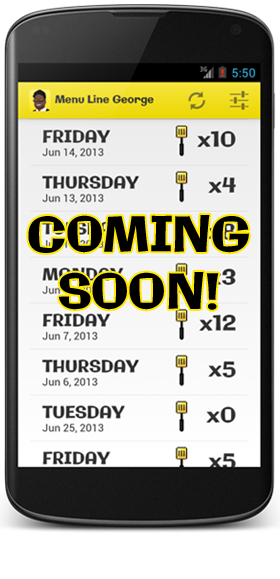
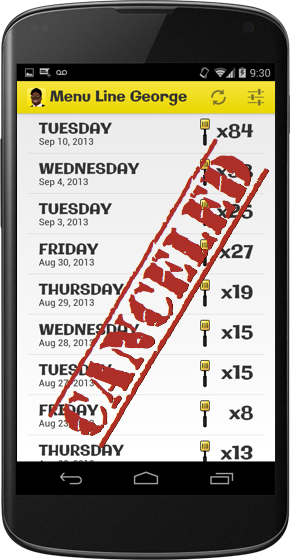
Update with George retirement and app expiration info.

diff --git a/index.html b/index.html
@@ -28,6 +28,8 @@
 	    <div class="description">
 	        <p>Menu Line George is everyone's favorite voice at Christus Schumpert Hospital!</p>
 	        <p>Listen to and rate all of George's recordings.</p>
+	        <p><strong>UPDATE:</strong>George has retired. :(</p>
+	        <p><a href="http://www.sethgholson.com/projects.html">More Info</a></p>
 	    </div>
 	<a href="#" class="main-button" id="btn-download">Download</a>
     <a href="#" class="main-button" id="btn-listen"><i class="icon-volume-up"></i> Listen</a>
@@ -37,7 +39,7 @@
 	    <div class="wrapper">
 	        <div class="column" id="iphone">
 	            <h2>App Store</h2> 
-	            <a class="device" id="leftDevice" href="https://itunes.apple.com/us/app/menu-line-george/id440761181"></a>
+	            <a class="device" id="leftDevice" href="http://www.sethgholson.com/projects.html"></a>
 	        </div>
 	        <div class="column" id="android">
 	            <h2>Google Play</h2>
